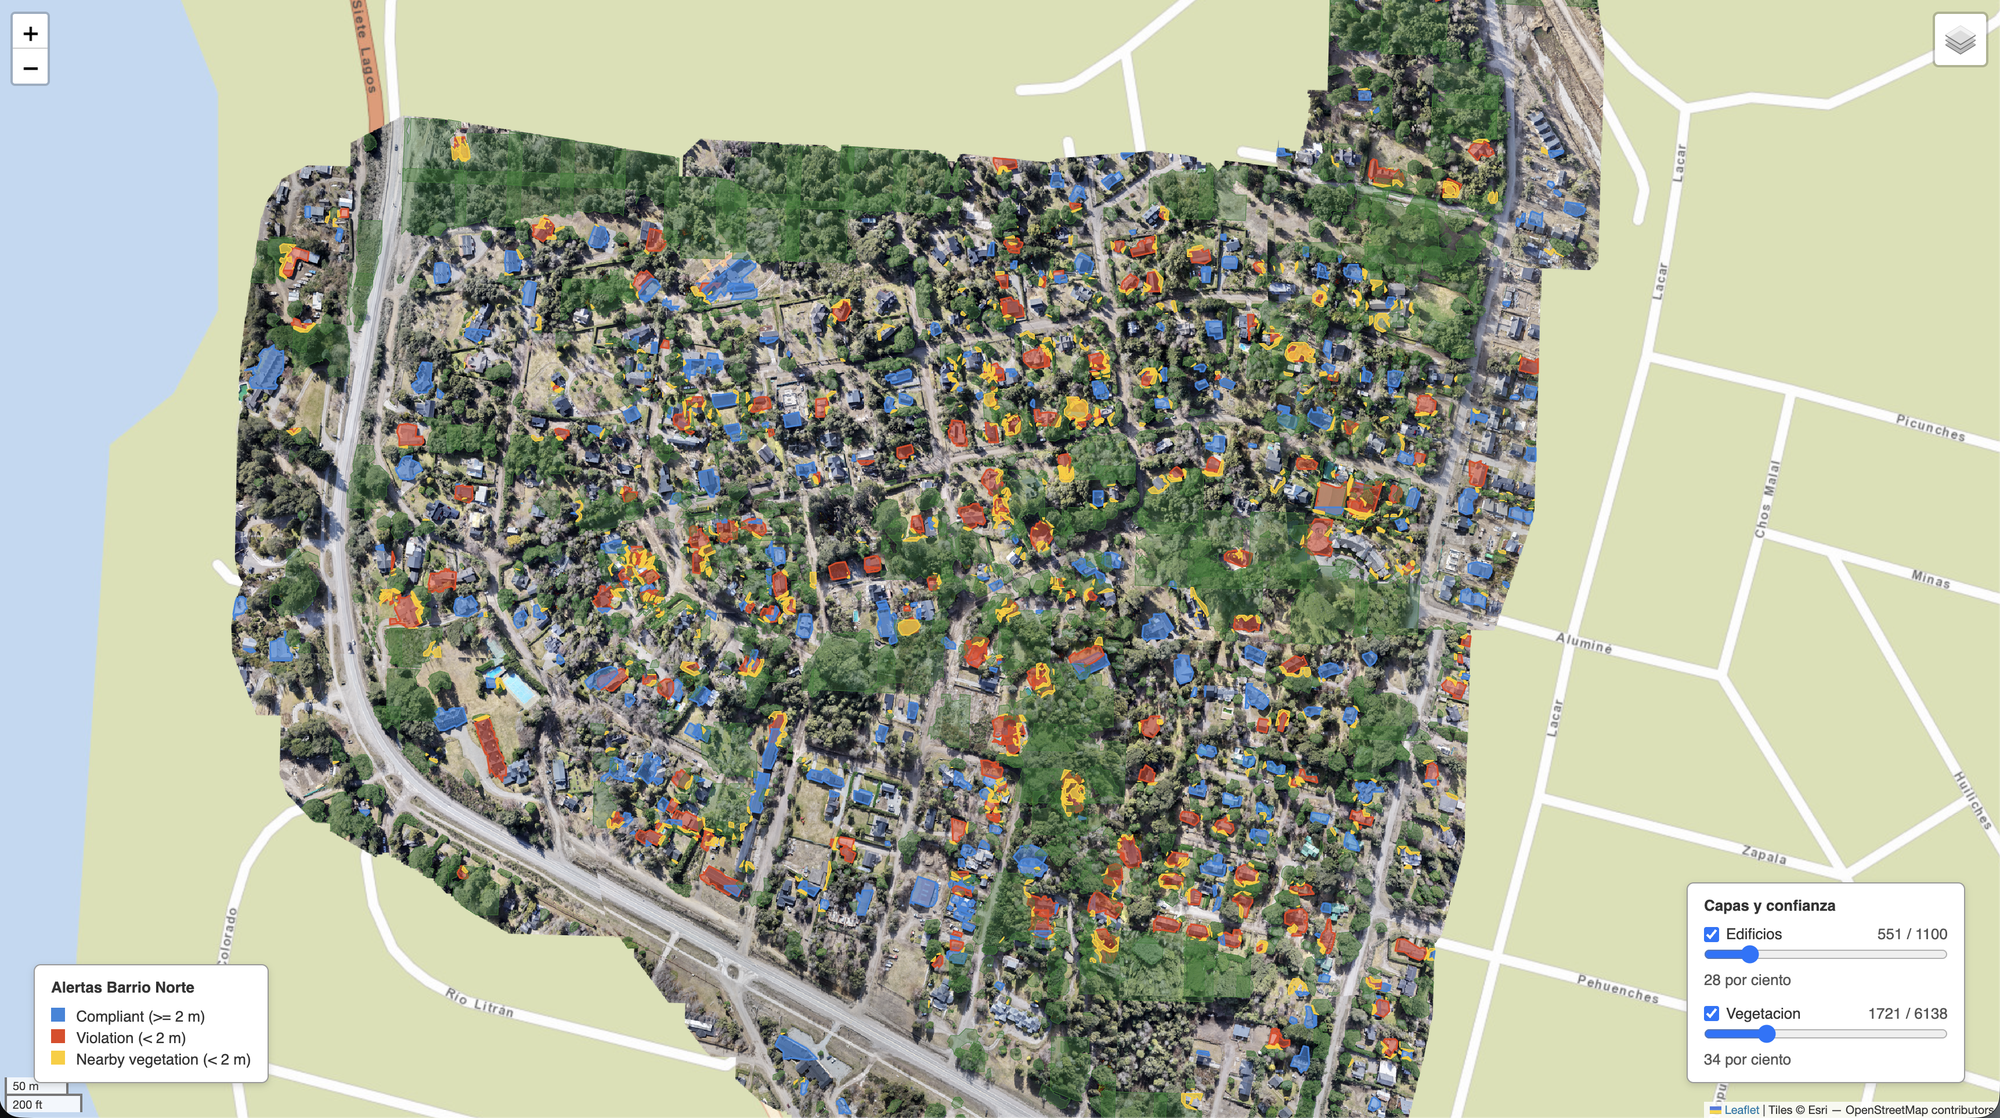
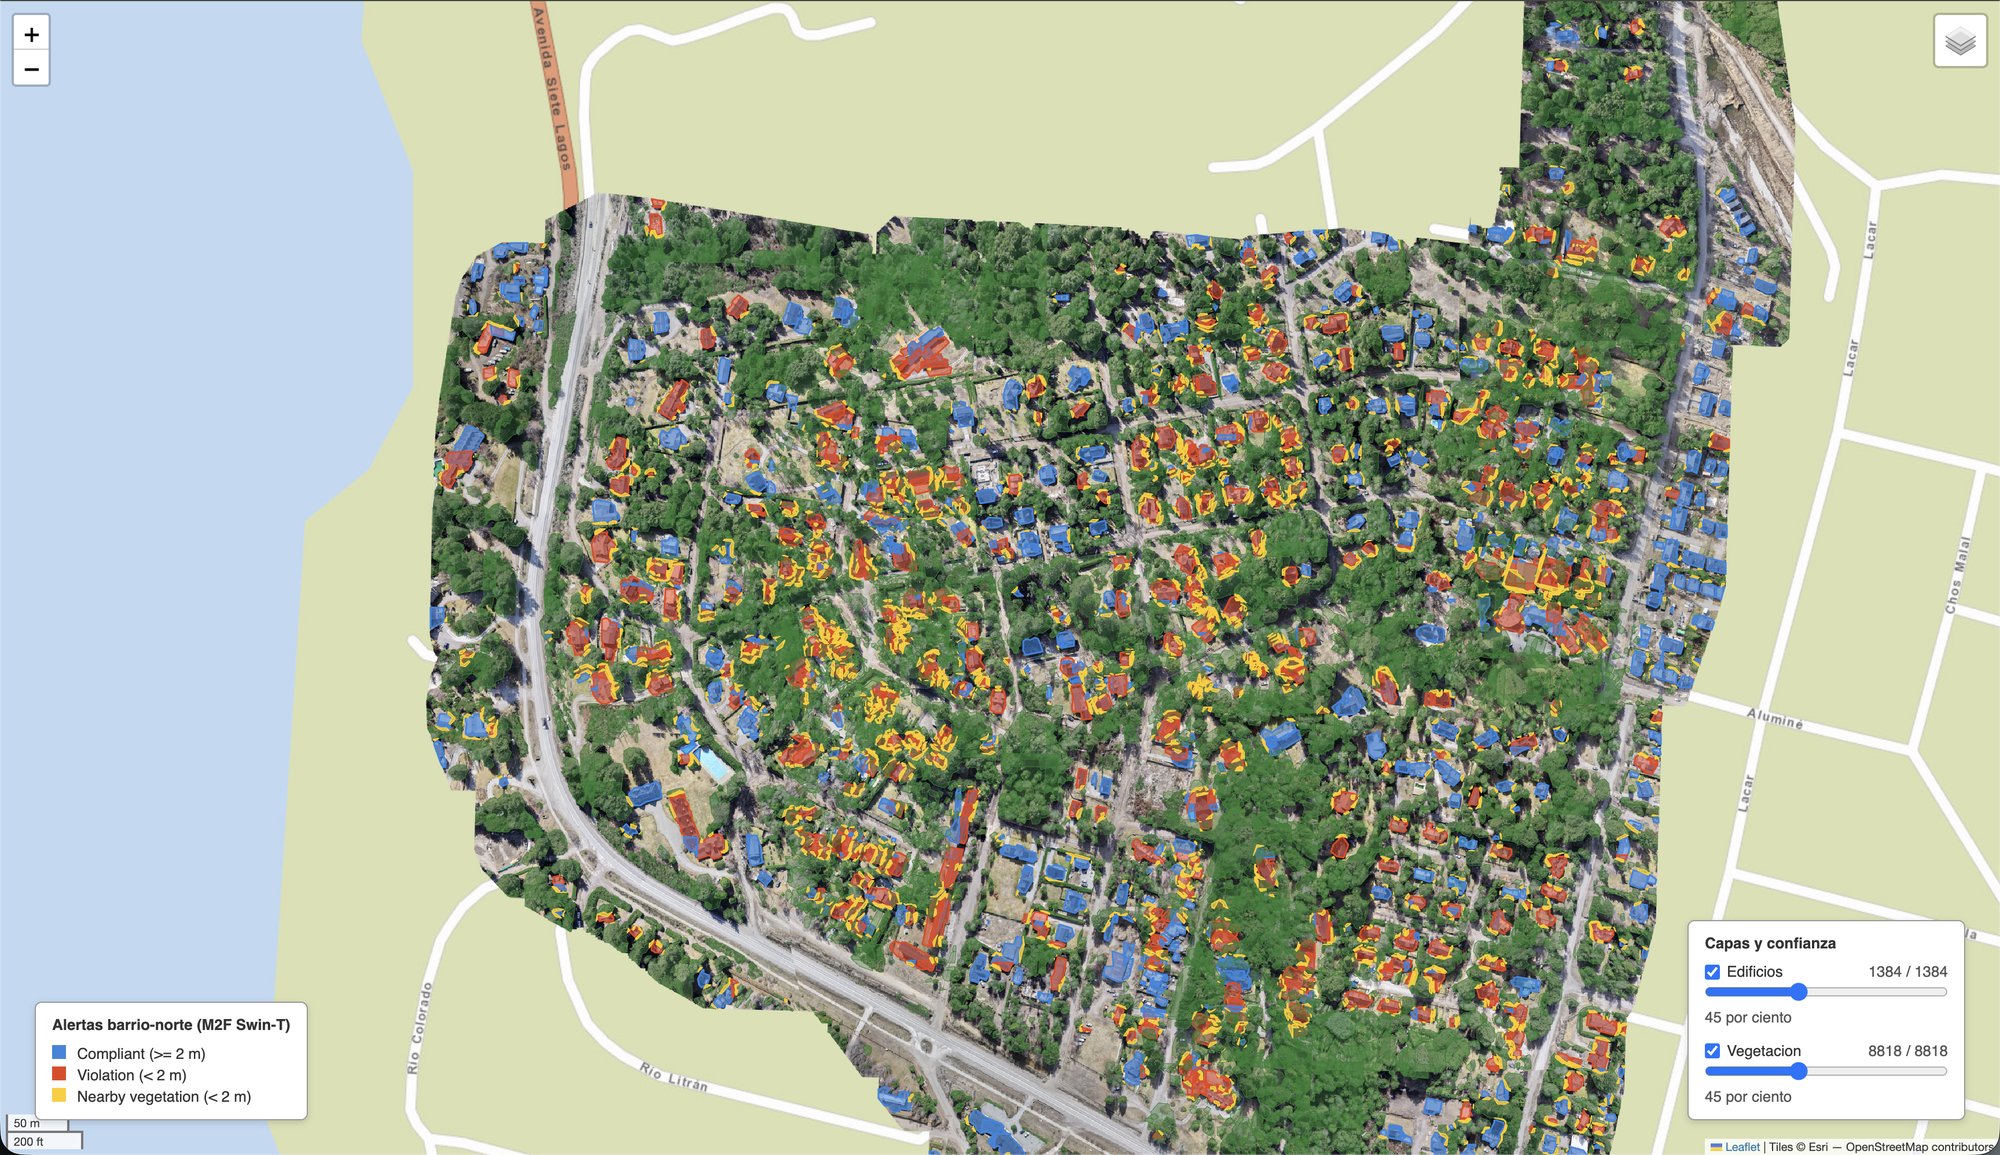
agregar captura del mapa de correntoso-arauco como figura 9

diff --git a/docs/INFORME.html b/docs/INFORME.html
@@ -784,8 +784,12 @@ caption .v-ok, caption .v-ko, caption .v-mix, caption .v-open{
 
 <h3>5.3. Resultados</h3>
 <figure>
-  <img src="images/mapa_folium.png" alt="Captura del mapa Folium interactivo de Barrio Norte">
-  <figcaption>Figura 8: Captura del mapa interactivo generado para Barrio Norte, con el ortomosaico del dron como fondo y las detecciones en <em>overlay</em>. Azul: cumple. Rojo: viola la regla de 2 m. Amarillo: vegetación dentro del <em>buffer</em>. El panel abajo a la derecha permite filtrar edificios y vegetación por confianza en vivo.</figcaption>
+  <img src="images/mapa_folium.png" alt="Captura del mapa interactivo de Barrio Norte con Mask2Former Swin-T">
+  <figcaption>Figura 8: Captura del mapa interactivo generado para Barrio Norte con <code>Mask2Former + Swin-T</code>, con el ortomosaico del dron como fondo y las detecciones en <em>overlay</em>. Azul: cumple. Rojo: viola la regla de 2 m. Amarillo: vegetación dentro del <em>buffer</em>. El panel abajo a la derecha permite filtrar edificios y vegetación por confianza en vivo.</figcaption>
+</figure>
+<figure>
+  <img src="images/mapa_folium_correntoso.png" alt="Captura del mapa interactivo de Correntoso/Arauco con Mask2Former Swin-T">
+  <figcaption>Figura 9: Captura del mapa interactivo generado para Correntoso/Arauco con <code>Mask2Former + Swin-T</code>, misma convención de colores que la Figura 8.</figcaption>
 </figure>
 
 <p>El <em>pipeline</em> se corrió sobre los dos sectores anotados (Barrio Norte y Correntoso/Arauco) y se publicaron sus mapas en el repo. La tasa de incumplimiento no se reporta como número único porque depende del umbral de confianza que el usuario elige en el mapa interactivo. Dos cautelas de diseño conviene mencionar: el modelo tiende a sobre-detectar estructuras (incluye cobertizos, galpones y techados menores que no son habitacionales y fragmenta un mismo edificio en varias detecciones) y no distingue el tipo de vegetación próxima, lo que es importante porque un pastizal cerca de una casa no se propaga igual que un pino. En términos de orden entre sectores, ambos están en interfaz urbano-forestal y en Villa La Angostura es raro encontrar una vivienda sin vegetación arbórea en los dos metros alrededor.</p>
